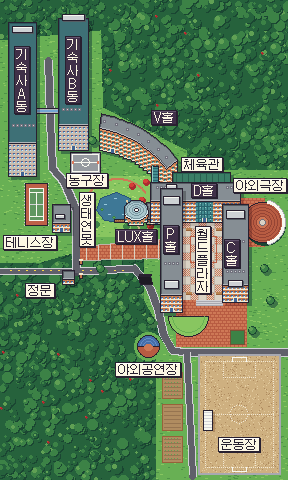
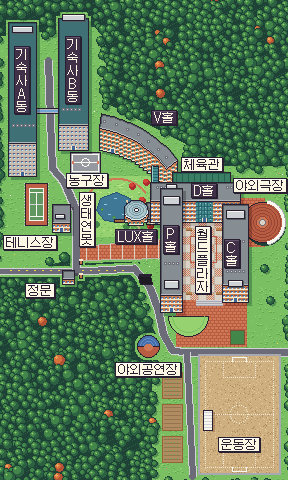
feat: natural forest map + gapless dex numbers
- map: grass first, then roads/buildings, then the forest is planted tree by tree only where it fits
  (>= 2 px from anything built) -> organic forest edges, no trees over roads/courts/buildings;
  softer Emerald palette, autumn maples, lawn tufts and flowers
- dex shows No.001..No.104 by list position (species.id keeps the atlas layout)

diff --git a/web/js/app.js b/web/js/app.js
@@ -32,6 +32,8 @@ const maxStage = (line) => lineOf(line)?.max_stage ?? 3;
 const speciesOf = (id) => S.catalog?.species.find((s) => s.id === id);
 const qrName = (id) => S.catalog?.qrs.find((q) => q.id === id)?.name;
 const dexOf = (line, stage) => (line - 1) * 3 + stage;
+// shown dex number = position in the list (No.001…No.104, no gaps) — species.id keeps (line-1)*3+stage for the atlas
+const dexNo = (sp) => `No.${String(S.catalog.species.findIndex((x) => x.id === sp.id) + 1).padStart(3, '0')}`;
 const collection = () => S.snap?.collection || [];
 const owned = (line) => collection().find((c) => c.line_id === line);
 const rules = () => ({ bag_max: 5, qr_daily_cap: 3, evo_prob: [0, 0.7, 0.35], evo_pity_step: 0.1, evo_pity_max: [0, 1, 2], ...(S.snap?.rules || {}) });
@@ -499,7 +501,7 @@ function viewDex() {
         onclick: () => { S.dexFilter = s; renderTab(); },
       }, s === 'all' ? '전체' : s))),
     h('div.dex-grid', list.map((sp) => {
-      if (isWithdrawn(sp.line_id)) return h('div.dex-cell.unknown.withdrawn', h('span.no', `No.${String(sp.id).padStart(3, '0')}`), spriteCanvas(sp.id, 72, 'silhouette'), h('span.nm', '비공개'));
+      if (isWithdrawn(sp.line_id)) return h('div.dex-cell.unknown.withdrawn', h('span.no', dexNo(sp)), spriteCanvas(sp.id, 72, 'silhouette'), h('span.nm', '비공개'));
       const ok = reached(sp);
       const c = owned(sp.line_id);
       const canEvo = ok && c.stage === sp.stage && sp.stage < maxStage(sp.line_id) && p.evo_tickets > 0;
@@ -507,7 +509,7 @@ function viewDex() {
         'aria-label': ok ? sp.name : '미발견',
         onclick: () => (ok ? openDetail(sp) : toast('아직 발견하지 못했어요. 학교 곳곳을 찾아보세요!')),
       },
-      h('span.no', `No.${String(sp.id).padStart(3, '0')}`),
+      h('span.no', dexNo(sp)),
       spriteCanvas(sp.id, 72, ok ? 'normal' : 'silhouette'),
       h('span.nm', ok ? sp.name : '???'),
       canEvo && h('span.evo-dot', '✨진화'));
@@ -543,7 +545,7 @@ function openDetail(sp) {
     h('div.grab'),
     h(`div.habitat.t-${line.subject}`, spriteCanvas(sp.id, 176)),
     h('div.box',
-      h('div.banner', h('b', `No.${String(sp.id).padStart(3, '0')} ${sp.name}`), h(`span.type.t-${line.subject}`, line.subject)),
+      h('div.banner', h('b', `${dexNo(sp)} ${sp.name}`), h(`span.type.t-${line.subject}`, line.subject)),
       h('div.kv',
         h('span', '분류'), h('span', sp.category),
         h('span', '키 / 몸무게'), h('span', `${sp.height} / ${sp.weight}`),

diff --git a/web/sw.js b/web/sw.js
@@ -1,7 +1,7 @@
 // Offline cache for the student app. Bump VERSION on every deploy.
 // Update policy: a new version installs in the background; the app tells it to take over (message 'skipWaiting')
 // at start-up or when the student taps "새 버전 적용" — never while a bag QR is on screen.
-const VERSION = 'hafsmon-v5';
+const VERSION = 'hafsmon-v6';
 const SHELL = [
   './', 'index.html', 's/', 's/index.html', 'manifest.webmanifest',
   'css/pixel.css', 'css/types.css', 'css/app.css',

diff --git a/tools/draw_map.py b/tools/draw_map.py
@@ -37,8 +37,8 @@ pix = img.load()
 
 # ── palette ──
 OUT = (40, 32, 48)
-G0 = (78, 148, 72); G1 = (104, 176, 84); G2 = (136, 198, 96); G3 = (180, 222, 120); GS = (62, 118, 70)
-F0 = (26, 70, 50); F1 = (38, 98, 60); F2 = (60, 130, 70); F3 = (96, 160, 84)       # forest canopy
+G0 = (98, 170, 84); G1 = (122, 192, 98); G2 = (150, 210, 112); G3 = (188, 228, 138); GS = (84, 146, 82)
+F0 = (30, 66, 54); F1 = (44, 98, 66); F2 = (66, 134, 74); F3 = (102, 168, 84); F4 = (150, 204, 110)   # forest canopy
 TRUNK = (110, 70, 46)
 P0 = (226, 206, 160); P1 = (200, 176, 130); PS = (168, 146, 110)
 K0 = (218, 210, 196); K1 = (190, 180, 168)
@@ -55,14 +55,14 @@ W0 = (40, 84, 120); W1 = (62, 120, 150); W2 = (150, 200, 220)
 DIRT0 = (176, 140, 96); DIRT1 = (206, 176, 128); DIRT2 = (226, 202, 158)
 WOOD = (150, 98, 58); WOOD_L = (186, 132, 80)
 S0 = (112, 112, 124); S1 = (168, 168, 176); S2 = (210, 210, 214)
-ROAD0 = (96, 96, 106); ROAD1 = (124, 124, 134)
+ROAD0 = (108, 108, 120); ROAD1 = (132, 132, 144)
 WHITE = (248, 248, 240)
 RED = (214, 64, 56); RED2 = (170, 44, 48); YEL = (248, 214, 72); PINK = (240, 156, 196)
 SEAT = (70, 110, 170); SEAT2 = (100, 140, 196)
 SIGN_BG = (252, 246, 228); BLD_BG = (64, 48, 72)
 DOME0 = (120, 150, 160); DOME1 = (170, 200, 206); DOME2 = (220, 238, 240)
 
-SHADE = {G0: GS, G1: GS, G2: G0, G3: G1, GS: GS, F3: F2, F2: F1, F1: F0,
+SHADE = {G0: GS, G1: GS, G2: G0, G3: G1, GS: GS, F4: F3, F3: F2, F2: F1, F1: F0,
          P0: P1, P1: PS, K0: K1, K1: (164, 154, 144), DIRT1: DIRT0, DIRT2: DIRT1, DIRT0: (150, 116, 80),
          ROAD0: (76, 76, 86), ROAD1: ROAD0, W1: W0, W2: W1, S1: S0, S2: S1,
          TB2: TB1, TB1: TB0, TB0: (122, 56, 44)}
@@ -91,36 +91,31 @@ def shade(x0, y0, x1, y1):
 
 KEEP = {}
 
-# ═════════════════════ GROUND: forest everywhere, then campus clearings ═════════════════════
-rect(0, 0, W, H, F1)
-for _ in range(2600):                                   # layered canopy blobs, lit from the top-left
-    x, y, r = rnd.randrange(-4, W + 4), rnd.randrange(-4, H + 4), rnd.choice((2, 3, 3, 4, 5))
-    d.ellipse((x - r + 1, y - r + 1, x + r + 1, y + r + 1), fill=F0)
-    d.ellipse((x - r, y - r, x + r, y + r), fill=F1 if rnd.random() < .6 else F2)
-    d.ellipse((x - r + 1, y - r + 1, x, y), fill=F2 if rnd.random() < .7 else F3)
-for _ in range(45):                                     # a few autumn red maples (photos)
-    x, y = rnd.randrange(W), rnd.randrange(H)
-    if pix[x, y] in (F1, F2):
-        d.ellipse((x, y, x + 2, y + 2), fill=RED2); pt(x, y, RED)
-
-
-def clearing(poly):
-    d.polygon(poly, fill=G1)
+# ═════════════════════ GROUND: grass everywhere; forest is planted at the end around everything ═════════════════════
+rect(0, 0, W, H, G1)
+CLEARINGS = [
+    [(0, 40), (100, 30), (104, 180), (82, 186), (82, 250), (40, 262), (0, 262)],     # dorm / tennis / gate side
+    [(78, 172), (160, 170), (160, 250), (78, 250)],                                   # garden
+    [(96, 104), (186, 150), (186, 200), (150, 200), (96, 170)],                       # around V홀
+    [(144, 170), (288, 170), (288, 352), (196, 356), (166, 340), (144, 300)],         # main block
+    [(156, 342), (288, 342), (288, 480), (156, 480)],                                 # field + farm
+]
+clear_mask = Image.new('L', (W, H), 0)
+for poly in CLEARINGS:
+    ImageDraw.Draw(clear_mask).polygon(poly, fill=255)
 
 
 def grass_texture(x0, y0, x1, y1):
-    for _ in range((x1 - x0) * (y1 - y0) // 30):
+    for _ in range((x1 - x0) * (y1 - y0) // 22):
         x, y = rnd.randrange(x0, x1), rnd.randrange(y0, y1)
         if pix[x, y] == G1:
-            rect(x, y, x + rnd.randrange(1, 3), y, G0 if rnd.random() < .5 else G2)
+            if rnd.random() < .55:
+                pt(x, y, G0); pt(x + 1, y, G0); pt(x, y - 1, G2)            # little tuft: dark blade + lit tip
+            else:
+                pt(x, y, G2)
 
 
-clearing([(0, 40), (100, 30), (104, 180), (82, 186), (82, 250), (40, 262), (0, 262)])     # dorm / tennis / gate side
-clearing([(78, 172), (160, 170), (160, 250), (78, 250)])                                   # garden
-clearing([(96, 104), (186, 150), (186, 200), (150, 200), (96, 170)])                       # around V홀
-clearing([(144, 170), (288, 170), (288, 352), (196, 356), (166, 340), (144, 300)])         # main block
-clearing([(156, 342), (288, 342), (288, 480), (156, 480)])                                 # field + farm
-grass_texture(0, 30, 288, 480)
+grass_texture(0, 0, W, H)
 
 # ── roads (thick polylines) ──
 def polyroad(pts, w, fill=ROAD0, edge=S2):
@@ -430,13 +425,80 @@ d.polygon([(138, 276), (150, 276), (152, 284), (140, 284)], fill=(30, 26, 36), o
 rect(139, 274, 151, 275, B1, OUT)
 KEEP['parking entrance'] = (138, 273, 153, 285)
 
-# a few campus trees in clearings
-for (x, y) in ((92, 140), (150, 320), (264, 268), (270, 300), (252, 330), (100, 268)):
-    r = 4
-    d.ellipse((x - r + 2, y - r + 3, x + r + 3, y + r + 3), fill=GS)
-    d.ellipse((x - r, y - r, x + r, y + r), fill=F2, outline=F0)
-    d.ellipse((x - r + 1, y - r + 1, x, y), fill=F3)
-    KEEP[f'tree@{x},{y}'] = (x - r, y - r, x + r + 4, y + r + 4)
+# ═════════════════════ FOREST: planted tree by tree, never touching roads / buildings / courts ═════════════════════
+GRASSY = {G0, G1, G2, G3, GS}
+free = Image.new('L', (W, H), 0)                    # 255 = plain grass (may hold a tree)
+fp = free.load()
+for y in range(H):
+    for x in range(W):
+        if pix[x, y] in GRASSY:
+            fp[x, y] = 255
+from PIL import ImageFilter
+free = free.filter(ImageFilter.MinFilter(5))         # keep trees ≥ 2 px away from anything built
+fp = free.load()
+cm = clear_mask.load()
+forest_core = clear_mask.point(lambda v: 255 - v).filter(ImageFilter.MinFilter(9)).load()   # deep forest, 4 px inside
+
+
+def tree(x, y, r, maple=False):
+    """round canopy, lit from the top-left, with a soft shadow down-right on the grass"""
+    for yy in range(y - r + 2, y + r + 4):            # shadow on grass only
+        for xx in range(x - r + 2, x + r + 4):
+            if (xx - x - 2) ** 2 + (yy - y - 2) ** 2 <= r * r and 0 <= xx < W and 0 <= yy < H and pix[xx, yy] in GRASSY:
+                pix[xx, yy] = GS
+    body, mid, lit = ((178, 82, 52), (214, 116, 62), (238, 168, 92)) if maple else (F1, F2, F3)   # autumn maple vs pine-green
+    d.ellipse((x - r, y - r, x + r, y + r), fill=F0)
+    d.ellipse((x - r + 1, y - r + 1, x + r - 1, y + r - 1), fill=body)
+    d.ellipse((x - r + 1, y - r + 1, x + r // 3, y + r // 3), fill=mid)
+    d.ellipse((x - r + 2, y - r + 2, x - r // 3, y - r // 3), fill=lit)
+    if r >= 4 and not maple:
+        pt(x - r + 3, y - r + 3, F4)
+
+
+def fits(x, y, r):
+    for yy in range(y - r, y + r + 1):
+        for xx in range(x - r, x + r + 1):
+            if (xx - x) ** 2 + (yy - y) ** 2 <= r * r:
+                if not (0 <= xx < W and 0 <= yy < H):
+                    continue                          # canopies may leave the map edge
+                if fp[xx, yy] == 0:
+                    return False
+    return True
+
+
+# deep-forest floor (only where no tree will ever be visible as a gap)
+for y in range(H):
+    for x in range(W):
+        if forest_core[x, y] and fp[x, y]:
+            pix[x, y] = F0 if (x * 7 + y * 3) % 11 else F1
+cands = []
+for _ in range(9000):
+    x, y = rnd.randrange(-3, W + 3), rnd.randrange(-3, H + 3)
+    inside = 0 <= x < W and 0 <= y < H
+    if inside and cm[x, y]:                           # trunk must stand in the forest (canopy may lean out)
+        continue
+    cands.append((y, x, rnd.choice((3, 4, 4, 5, 5, 6))))
+cands.sort()                                          # back to front
+planted = []
+for y, x, r in cands:
+    if any((x - px_) ** 2 + (y - py_) ** 2 < (r + pr - 3) ** 2 for (px_, py_, pr) in planted[-160:]):
+        continue
+    if fits(x, y, r):
+        tree(x, y, r, maple=rnd.random() < .012)
+        planted.append((x, y, r))
+
+# campus trees in clearings (also only where they fit)
+for (x, y) in ((92, 140), (150, 320), (264, 268), (270, 300), (252, 330), (100, 268), (196, 168),
+               (120, 100), (136, 112), (6, 30), (100, 40)):
+    if fits(x, y, 4):
+        tree(x, y, 4)
+        KEEP[f'tree@{x},{y}'] = (x - 4, y - 4, x + 8, y + 8)
+
+# a few flowers in the lawns
+for _ in range(160):
+    x, y = rnd.randrange(W), rnd.randrange(H)
+    if pix[x, y] == G1 and cm[x, y] and fp[x, y]:
+        pt(x, y, rnd.choice(((248, 248, 240), (248, 214, 72), (240, 120, 140))))
 
 # ═════════════════════ LABELS ═════════════════════
 LABELS = []
